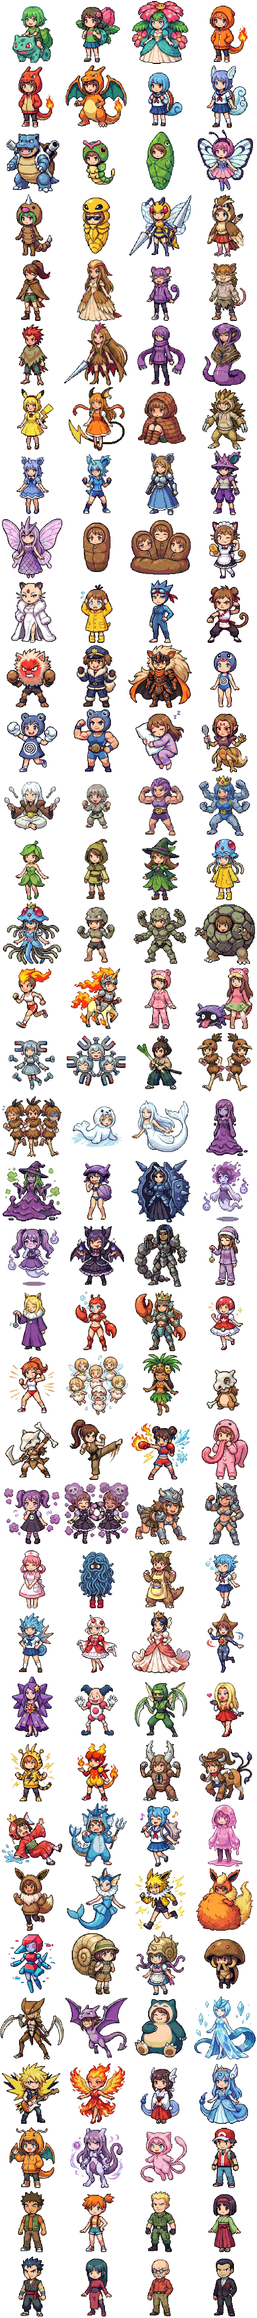
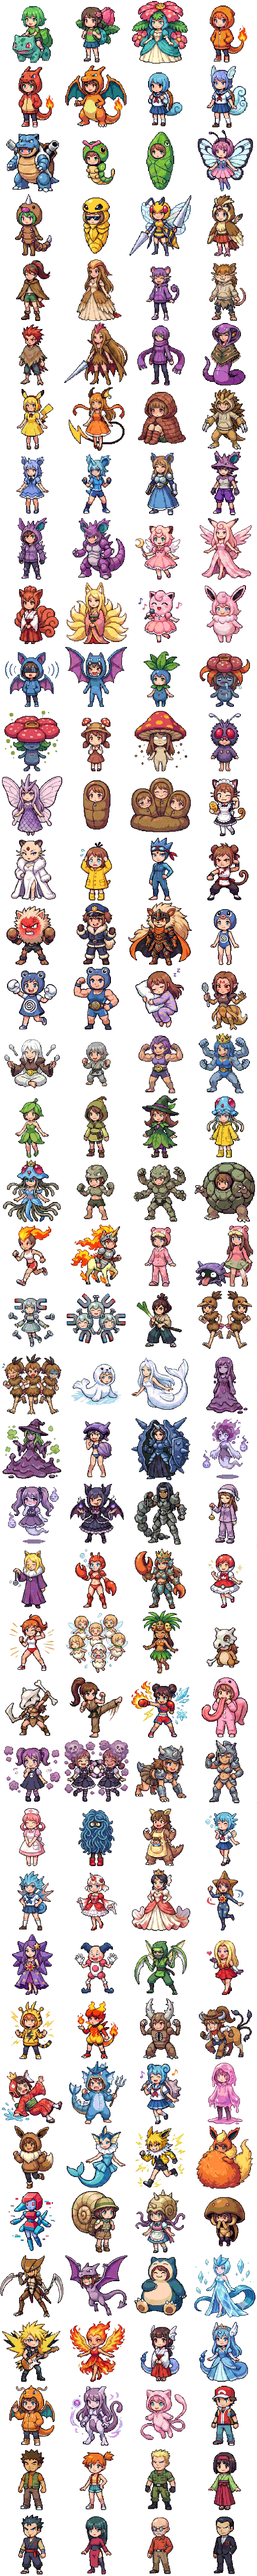
feat: Add sprite debugging utility and update `poke.png` asset.

diff --git a/debug_splite.html b/debug_splite.html
@@ -1,0 +1,154 @@
+<!DOCTYPE html>
+<html>
+
+<head>
+    <meta charset="UTF-8">
+    <title>Debug Splite</title>
+    <style>
+        body {
+            background: #333;
+            color: white;
+            font-family: sans-serif;
+        }
+
+        .grid {
+            display: grid;
+            grid-template-columns: repeat(4, 1fr);
+            gap: 10px;
+            width: fit-content;
+        }
+
+        .cell {
+            text-align: center;
+            border: 1px solid #555;
+            padding: 5px;
+            background: rgba(0, 0, 0, 0.2);
+            width: 140px;
+        }
+
+        canvas {
+            border: 1px solid #777;
+            background: rgba(255, 255, 255, 0.1);
+        }
+
+        .name {
+            font-weight: bold;
+            margin-top: 5px;
+            font-size: 14px;
+            min-height: 20px;
+            word-break: break-all;
+        }
+
+        .id {
+            color: #aaa;
+            font-size: 12px;
+        }
+    </style>
+</head>
+
+<body>
+    <h1>Sprite Debug Viewer</h1>
+    <img id="source" src="poke.png" style="display:none">
+    <div id="grid" class="grid"></div>
+
+    <script>
+        // Full list of 151 Pokemon + Special characters
+        const ALL_NAMES = {
+            1: "フシギダネ", 2: "フシギソウ", 3: "フシギバナ", 4: "ヒトカゲ", 5: "リザード", 6: "リザードン",
+            7: "ゼニガメ", 8: "カメール", 9: "カメックス", 10: "キャタピー", 11: "トランセル", 12: "バタフリー",
+            13: "ビードル", 14: "コクーン", 15: "スピアー", 16: "ポッポ", 17: "ピジョン", 18: "ピジョット",
+            19: "コラッタ", 20: "ラッタ", 21: "オニスズメ", 22: "オニドリル", 23: "アーボ", 24: "アーボック",
+            25: "ピカチュウ", 26: "ライチュウ", 27: "サンド", 28: "サンドパン", 29: "ニドラン♀", 30: "ニドリーナ",
+            31: "ニドクイン", 32: "ニドラン♂", 33: "ニドリーノ", 34: "ニドキング", 35: "ピッピ", 36: "ピクシー",
+            37: "ロコン", 38: "キュウコン", 39: "プリン", 40: "プクリン", 41: "ズバット", 42: "ゴルバット",
+            43: "ナゾノクサ", 44: "クサイハナ", 45: "ラフレシア", 46: "パラス", 47: "パラセクト", 48: "コンパン",
+            49: "モルフォン", 50: "ディグダ", 51: "ダグトリオ", 52: "ニャース", 53: "ペルシアン", 54: "コダック",
+            55: "ゴルダック", 56: "マンキー", 57: "オコリザル", 58: "ガーディ", 59: "ウインディ", 60: "ニョロモ",
+            61: "ニョロゾ", 62: "ニョロボン", 63: "ケーシィ", 64: "ユンゲラー", 65: "フーディン", 66: "ワンリキー",
+            67: "ゴーリキー", 68: "カイリキー", 69: "マダツボミ", 70: "ウツドン", 71: "ウツボット", 72: "メノクラゲ",
+            73: "ドククラゲ", 74: "イシツブテ", 75: "ゴローン", 76: "ゴローニャ", 77: "ポニータ", 78: "ギャロップ",
+            79: "ヤドン", 80: "ヤドラン", 81: "コイル", 82: "レアコイル", 83: "カモネギ", 84: "ドードー",
+            85: "ドードリオ", 86: "パウワウ", 87: "ジュゴン", 88: "ベトベター", 89: "ベトベトン", 90: "シェルダー",
+            91: "パルシェン", 92: "ゴース", 93: "ゴースト", 94: "ゲンガー", 95: "イワーク", 96: "スリープ",
+            97: "スリーパー", 98: "クラブ", 99: "キングラー", 100: "ビリリダマ", 101: "マルマイン", 102: "タマタマ",
+            103: "ナッシー", 104: "カラカラ", 105: "ガラガラ", 106: "サワムラー", 107: "エビワラー", 108: "ベロリンガ",
+            109: "ドガース", 110: "マタドガス", 111: "サイホーン", 112: "サイドン", 113: "ラッキー", 114: "モンジャラ",
+            115: "ガルーラ", 116: "タッツー", 117: "シードラ", 118: "トサキント", 119: "アズマオウ", 120: "ヒトデマン",
+            121: "スターミー", 122: "バリヤード", 123: "ストライク", 124: "ルージュラ", 125: "エレブー", 126: "ブーバー",
+            127: "カイロス", 128: "ケンタロス", 129: "コイキング", 130: "ギャラドス", 131: "ラプラス", 132: "メタモン",
+            133: "イーブイ", 134: "シャワーズ", 135: "サンダース", 136: "ブースター", 137: "ポリゴン", 138: "オムナイト",
+            139: "オムスター", 140: "カブト", 141: "カブトプス", 142: "プテラ", 143: "カビゴン", 144: "フリーザー",
+            145: "サンダー", 146: "ファイヤー", 147: "ミニリュウ", 148: "ハクリュー", 149: "カイリュー", 150: "ミュウツー",
+            151: "ミュウ",
+
+            // Special Characters
+            152: "主人公",
+            153: "タケシ",
+            154: "カスミ",
+            155: "マチス",
+            156: "エリカ",
+            157: "キョウ",
+            158: "ナツメ",
+            159: "カツラ",
+            160: "サカキ"
+        };
+
+        const img = document.getElementById('source');
+
+        img.onload = () => {
+            const grid = document.getElementById('grid');
+            const spriteSize = 128;
+            const cols = 4;
+
+            // Calculate total based on image size
+            const rows = Math.ceil(img.height / spriteSize);
+            const totalSprites = rows * cols;
+
+            // Show up to 160 assuming formatting
+            const maxShow = 160;
+
+            for (let i = 0; i < maxShow; i++) {
+                const id = i + 1;
+
+                // Break if we run out of vertical image space
+                if (Math.floor(i / cols) * spriteSize >= img.height) break;
+
+                const cell = document.createElement('div');
+                cell.className = 'cell';
+
+                const canvas = document.createElement('canvas');
+                canvas.width = spriteSize;
+                canvas.height = spriteSize;
+                const ctx = canvas.getContext('2d');
+
+                const col = i % cols;
+                const row = Math.floor(i / cols);
+                const sx = col * spriteSize;
+                const sy = row * spriteSize;
+
+                ctx.drawImage(img, sx, sy, spriteSize, spriteSize, 0, 0, spriteSize, spriteSize);
+
+                const nameDiv = document.createElement('div');
+                nameDiv.className = 'name';
+
+                const name = ALL_NAMES[id] || "Unknown";
+                nameDiv.textContent = name;
+
+                if (id >= 152) {
+                    nameDiv.style.color = id === 152 ? "#ffff88" : "#ff8888";
+                }
+
+                const idDiv = document.createElement('div');
+                idDiv.className = 'id';
+                idDiv.textContent = `ID: ${id}`;
+
+                cell.appendChild(canvas);
+                cell.appendChild(nameDiv);
+                cell.appendChild(idDiv);
+                grid.appendChild(cell);
+            }
+        };
+    </script>
+</body>
+
+</html>
